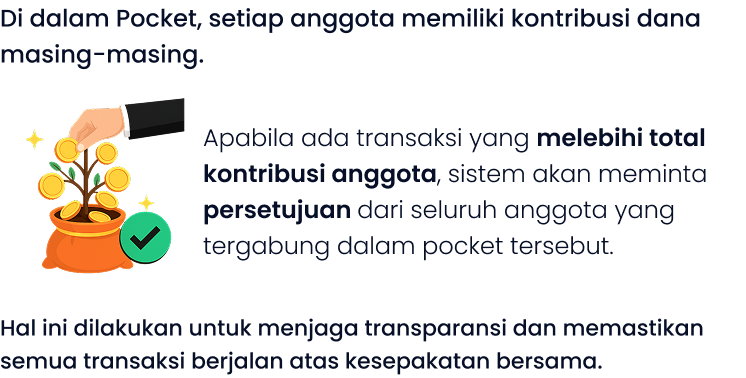
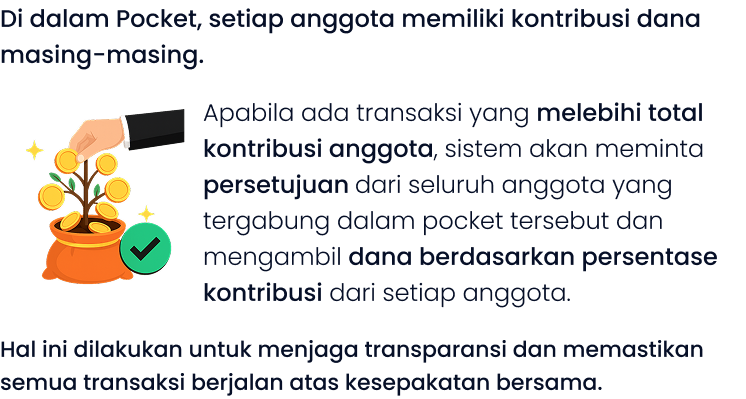
fix: pocket info approval and fix safe area view

diff --git a/app/_layout.jsx b/app/_layout.jsx
@@ -28,12 +28,6 @@ export default function RootLayout() {
     <SafeAreaProvider>
       <GluestackUIProvider mode={colorScheme === "dark" ? "light" : "light"}>
         <ThemeProvider value={DefaultTheme}>
-          {/* <SafeAreaView
-            edges={["top"]}
-            style={{ flex: 1 }}
-            className={savColor}
-          >
-          </SafeAreaView> */}
           <Stack>
             <Stack.Screen name="(auth)" options={{ headerShown: false }} />
             <Stack.Screen name="(main)" options={{ headerShown: false }} />

diff --git a/app/(main)/pocket/[id]/PocketInfo.jsx b/app/(main)/pocket/[id]/PocketInfo.jsx
@@ -107,7 +107,7 @@ export default function PocketInfo() {
           <Image
             source={activeTab === "personal" ? ApprovalImg : ApprovalBisnisImg}
             alt="approval"
-            className="w-full h-56 my-3"
+            className="w-full h-60 my-3"
             resizeMode="contain"
           />
         </ScrollView>
